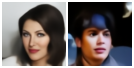
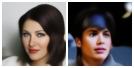
Update CelebA visualization
Updated CelebA interpolation visualization, which had an error as the
interpolation actually used an older version of the model by mistake.

diff --git a/_posts/2022-03-01-team27-diffusion-inversion.md b/_posts/2022-03-01-team27-diffusion-inversion.md
@@ -647,7 +647,7 @@ def gradient_inversion(z=None, target=None, diffusion=None, lr=0.01, num_i=100, 
     </div>
 </div>
 
-*Figure 2: Sample generated images with DDIM, with the final generated results (left) and evolution of some fixed latent over the training process with EMA parameters (right). We generate the samples with `num_t_step=50`. The datasets used, from the top to bottom, are CelebA, LSUN Churches, Flower102, and Miniplaces.*
+*Figure 2: Sample generated images with DDIM, with the final generated results (left) and evolution of some fixed latent over the training process with EMA parameters (right). We generate the samples with `num_t_step=50`. The datasets used, from the top to bottom, are CelebA, LSUN Churches, Flowers102, and Miniplaces.*
 
 We train DDIMs on the datasets CelebA, LSUN Churches, Flowers102, and Miniplaces with identical architectures as the output images are all $$64 \times 64$$. Particularly, we set filters of $$[128, 256, 256, 256, 512]$$ with self-attention at the $$16 \times 16$$ resolution (so right after the second $$256$$ layer), with each filter layer consisting of two residual blocks and then a down/upsampling module. We select $$128$$ as the time embedding dimensions. We set a dropout of $$0.1$$. We use $$3 \times 3$$ convolutions for mismatching channel residual skips, and we also use $$3 \times 3$$ convolutions (after interpolation) for down/upsampling. The model is about $$75.3$$ million parameters. We did find significant generation quality improvements of the $$75$$-million model compared to much smaller $$5$$- to $$10$$-million parameter models, especially for LSUN Churches and Miniplaces.
 
